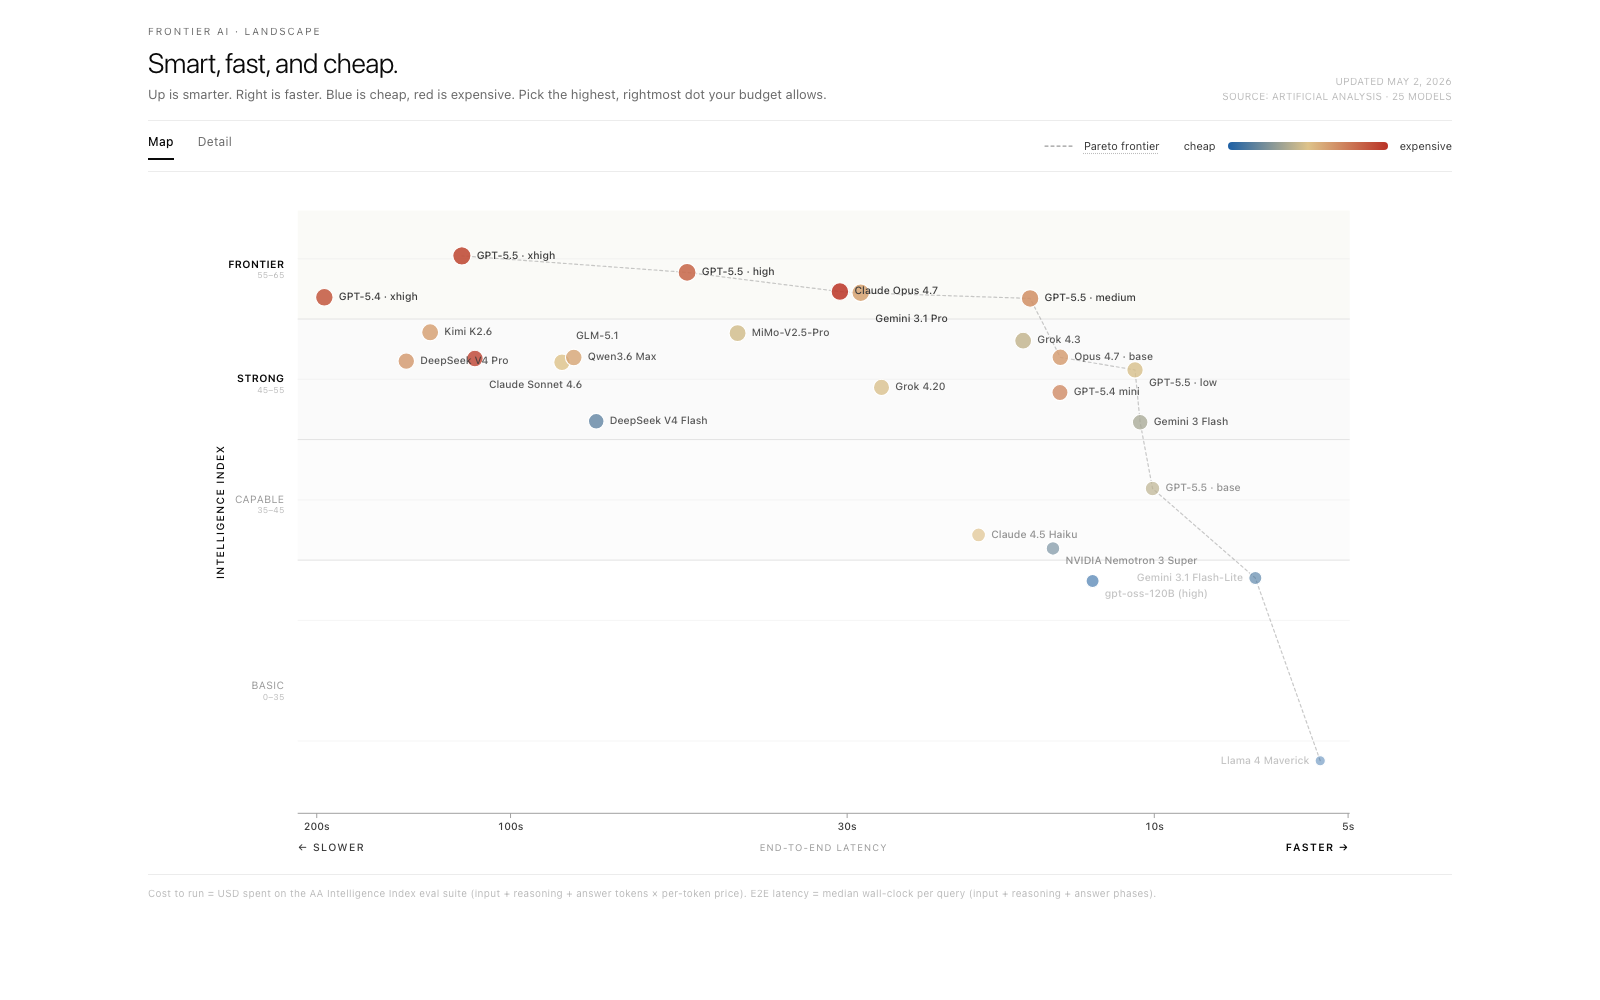
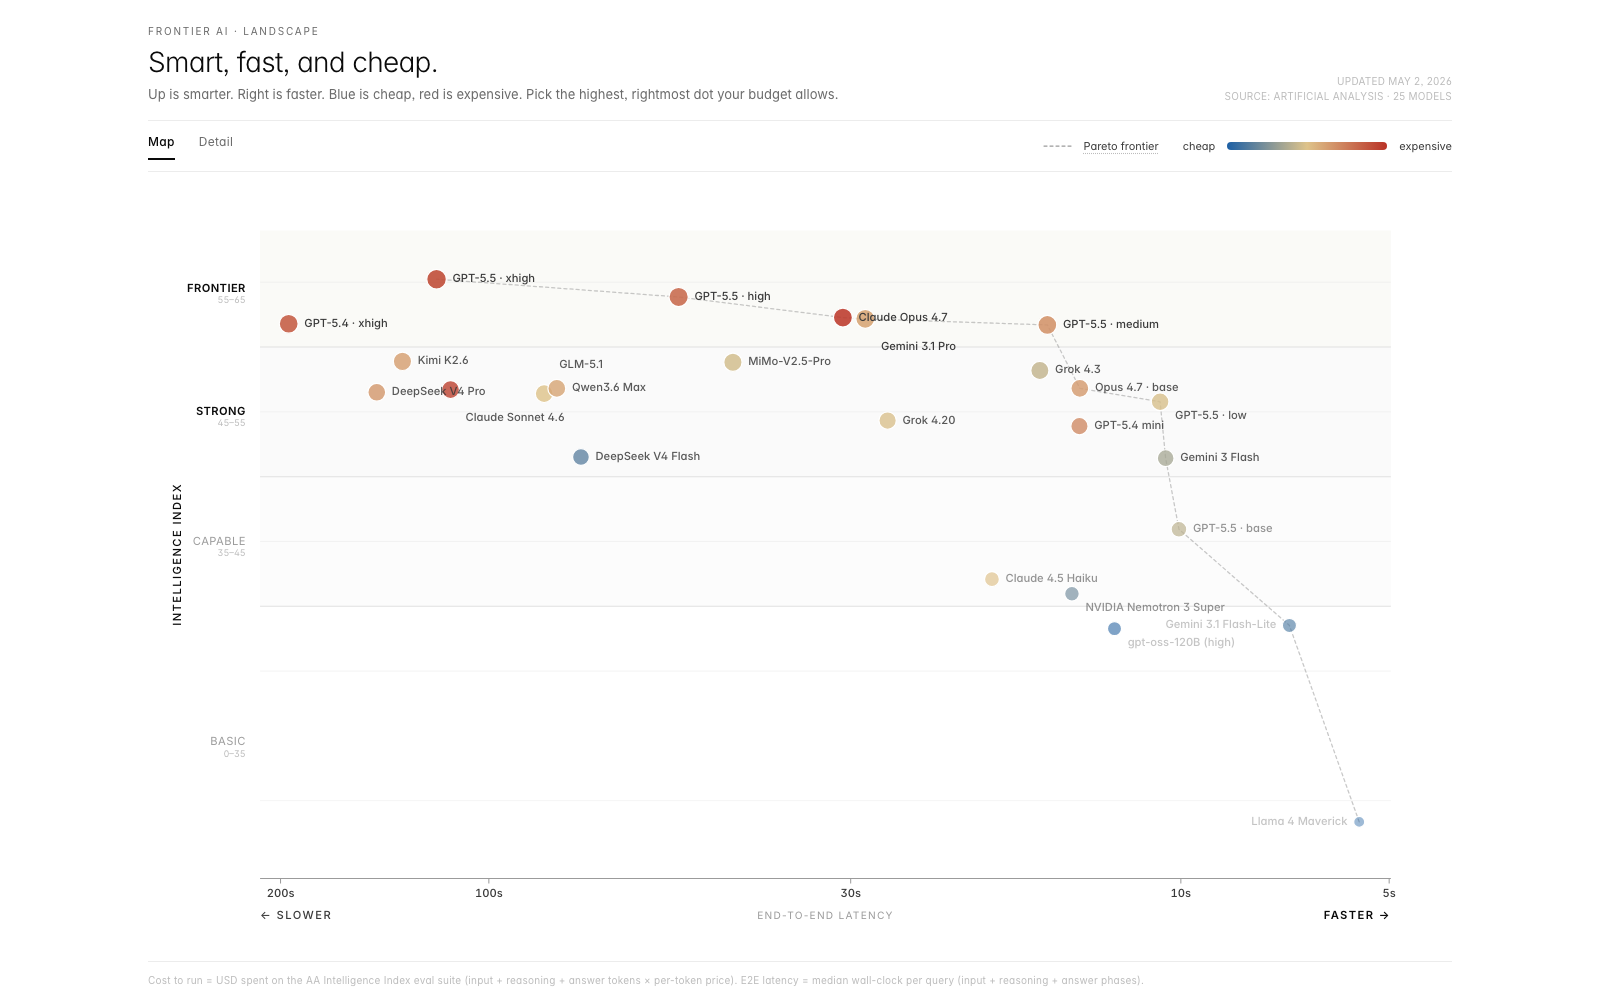
Automate screenshot refresh

diff --git a/scripts/fetch-models.ts b/scripts/fetch-models.ts
@@ -9,9 +9,11 @@
  * Run with: npm run fetch
  */
 import { config } from "dotenv";
-import { writeFileSync, mkdirSync } from "node:fs";
+import { spawn } from "node:child_process";
+import { existsSync, mkdirSync, readFileSync, writeFileSync } from "node:fs";
 import { resolve, dirname } from "node:path";
 import { fileURLToPath } from "node:url";
+import { chromium } from "playwright";
 
 config();
 
@@ -19,7 +21,9 @@ const API_URL = "https://artificialanalysis.ai/api/v2/data/llms/models";
 const SCRAPE_URL = "https://artificialanalysis.ai/models/gpt-5-5-medium"; // any model page works
 const HIGHLIGHTS_URL = "https://artificialanalysis.ai/";
 const __dirname = dirname(fileURLToPath(import.meta.url));
+const ROOT_PATH = resolve(__dirname, "..");
 const OUT_PATH = resolve(__dirname, "..", "src", "data", "models.json");
+const SCREENSHOT_PATH = resolve(ROOT_PATH, "docs", "screenshot.png");
 
 interface ModelSeed {
   slug: string;
@@ -252,6 +256,83 @@ function positiveFinite(value: number | undefined): value is number {
   return typeof value === "number" && Number.isFinite(value) && value > 0;
 }
 
+function runCommand(command: string, args: string[]): Promise<void> {
+  return new Promise((resolvePromise, reject) => {
+    const child = spawn(command, args, { cwd: ROOT_PATH, stdio: "inherit" });
+    child.on("error", reject);
+    child.on("exit", (code) => {
+      if (code === 0) resolvePromise();
+      else reject(new Error(`${command} ${args.join(" ")} exited with ${code}`));
+    });
+  });
+}
+
+async function ensurePlaywrightChromium(): Promise<void> {
+  if (existsSync(chromium.executablePath())) return;
+  console.log("installing Playwright Chromium for headless screenshots ...");
+  await runCommand("npx", ["playwright", "install", "chromium"]);
+}
+
+function builtHtmlForScreenshot(): string {
+  let html = readFileSync(resolve(ROOT_PATH, "dist", "index.html"), "utf8");
+
+  html = html.replace(
+    /<link[^>]+rel="stylesheet"[^>]+href="\.?\/?([^"]+)"[^>]*>/g,
+    (tag, href: string) =>
+      /^https?:/.test(href)
+        ? tag
+        : `<style>${readFileSync(resolve(ROOT_PATH, "dist", href), "utf8")}</style>`,
+  );
+
+  html = html.replace(
+    /<script[^>]+type="module"[^>]+src="\.?\/?([^"]+)"[^>]*><\/script>/g,
+    (tag, src: string) =>
+      /^https?:/.test(src)
+        ? tag
+        : `<script type="module">${readFileSync(resolve(ROOT_PATH, "dist", src), "utf8")}</script>`,
+  );
+
+  return html;
+}
+
+async function captureScreenshot(outPath: string): Promise<void> {
+  mkdirSync(dirname(outPath), { recursive: true });
+  await ensurePlaywrightChromium();
+  const browser = await chromium.launch({
+    headless: true,
+    args: [
+      "--disable-background-networking",
+      "--disable-extensions",
+      "--disable-sync",
+      "--hide-scrollbars",
+      "--no-default-browser-check",
+      "--no-first-run",
+    ],
+  });
+
+  try {
+    const page = await browser.newPage({ viewport: { width: 1600, height: 1000 } });
+    await page.setContent(builtHtmlForScreenshot(), { waitUntil: "networkidle" });
+    await page.evaluate(() => document.fonts.ready);
+    await page.waitForSelector("svg", { timeout: 10_000 });
+    await page.screenshot({
+      path: outPath,
+      fullPage: false,
+    });
+  } finally {
+    await browser.close();
+  }
+}
+
+async function refreshScreenshot(): Promise<void> {
+  console.log("building app for screenshot ...");
+  await runCommand("npm", ["run", "build", "--", "--base=./"]);
+
+  console.log(`capturing screenshot ${SCREENSHOT_PATH} ...`);
+  await captureScreenshot(SCREENSHOT_PATH);
+  console.log(`wrote ${SCREENSHOT_PATH}`);
+}
+
 async function main() {
   const apiKey = process.env.AA_API_KEY;
   if (!apiKey) throw new Error("AA_API_KEY missing in .env");
@@ -338,6 +419,8 @@ async function main() {
     JSON.stringify({ fetchedAt: new Date().toISOString(), models: out }, null, 2),
   );
   console.log(`wrote ${OUT_PATH}`);
+
+  await refreshScreenshot();
 }
 
 main().catch((e) => {

diff --git a/README.md b/README.md
@@ -17,8 +17,8 @@ The existing AI comparison charts are all a bit off. They use token price as a s
 ```sh
 npm install
 cp .env.example .env   # paste your Artificial Analysis API key
-npm run fetch          # pull latest model numbers
+npm run fetch          # pull latest model numbers and refresh docs/screenshot.png
 npm run dev            # opens the chart in your browser
 ```
 
-The pinned model list lives at the top of `scripts/fetch-models.ts`. `npm run fetch` also scans the Artificial Analysis homepage Highlights cards and auto-adds any highlighted models that have complete chart metrics. Rows with missing cost or latency are skipped so they cannot break the log-scaled chart.
+The pinned model list lives at the top of `scripts/fetch-models.ts`. `npm run fetch` also scans the Artificial Analysis homepage Highlights cards, auto-adds any highlighted models that have complete chart metrics, and regenerates the README screenshot. Rows with missing cost or latency are skipped so they cannot break the log-scaled chart.